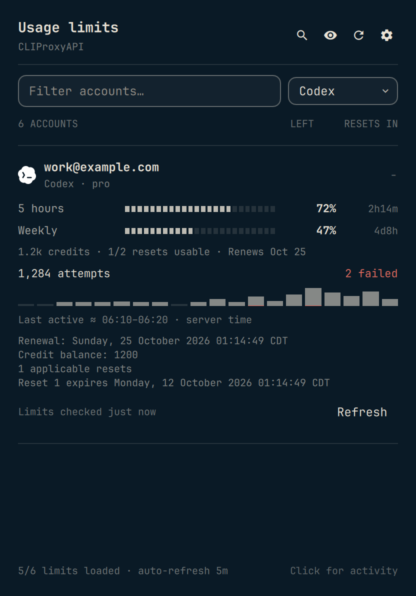
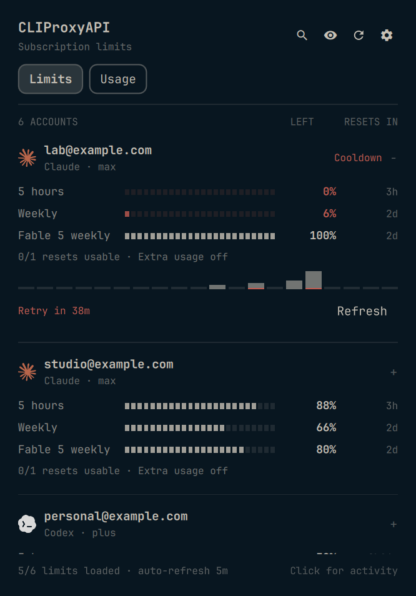
Simplify expanded account details while keeping quota charts

diff --git a/AccountRow.qml b/AccountRow.qml
@@ -1,4 +1,5 @@
 import QtQuick
+import QtQuick.Controls as Controls
 import QtQuick.Layouts
 import qs.Commons
 import qs.Commons as Commons
@@ -63,6 +64,9 @@ ColumnLayout {
         Layout.fillWidth: true; visible: root.facts !== ""
         text: root.facts; wrapMode: Text.Wrap
         color: Qt.alpha(Commons.Color.foreground, 0.55); font.pixelSize: Style.font.caption
+        HoverHandler { id: factsHover }
+        Controls.ToolTip.visible: factsHover.hovered && Display.quotaDetails(root.quota) !== ""
+        Controls.ToolTip.text: Display.quotaDetails(root.quota)
     }
     Label {
         Layout.fillWidth: true
@@ -102,45 +106,27 @@ ColumnLayout {
     ColumnLayout {
         visible: root.expanded
         Layout.fillWidth: true; spacing: Style.space(7)
-        RowLayout {
-            Layout.fillWidth: true
-            Label { text: Display.count(root.account.requests) + (root.account.metricsLabel === "Recorded requests" ? " requests" : " attempts"); font.pixelSize: Style.font.bodySmall }
-            Item { Layout.fillWidth: true }
-            Label { text: Display.count(root.account.failed) + " failed"; color: root.account.failed ? Commons.Color.urgent : Qt.alpha(Commons.Color.foreground, 0.5); font.pixelSize: Style.font.bodySmall }
-        }
         ActivityStrip { Layout.fillWidth: true; buckets: root.account.history || []; compact: true }
-        Label {
-            Layout.fillWidth: true; wrapMode: Text.Wrap
-            text: root.account.lastActivityKind === "exact" ? "Last request " + new Date(root.account.lastRequestAt).toLocaleString()
-                : root.account.lastActivityKind === "window" ? "Last active ≈ " + Display.activity(root.account, root.now) + " · server time"
-                : "Last request not reported"
-            color: Qt.alpha(Commons.Color.foreground, 0.5); font.pixelSize: Style.font.caption
-        }
-        Label {
-            Layout.fillWidth: true; visible: !!root.account.nextRetryAt
-            text: "Retry available " + (root.account.nextRetryAt ? new Date(root.account.nextRetryAt).toLocaleString() : "")
-            color: Commons.Color.urgent; font.pixelSize: Style.font.caption; wrapMode: Text.Wrap
-        }
-        Label {
-            Layout.fillWidth: true; visible: Display.quotaDetails(root.quota) !== ""
-            text: Display.quotaDetails(root.quota)
-            color: Qt.alpha(Commons.Color.foreground, 0.55); font.pixelSize: Style.font.caption; wrapMode: Text.Wrap
-        }
-        Label {
-            Layout.fillWidth: true; visible: !!(root.quota && (root.quota.notices || []).length)
-            text: root.quota ? (root.quota.notices || []).join("\n") : ""
-            color: Qt.alpha(Commons.Color.foreground, 0.55); font.pixelSize: Style.font.caption; wrapMode: Text.Wrap
-        }
         RowLayout {
             Layout.fillWidth: true
             Label {
-                Layout.fillWidth: true
-                text: root.quota && root.quota.updatedAt ? "Limits checked " + Display.relative(root.quota.updatedAt, root.now).toLowerCase() : "Limits not checked"
-                color: Qt.alpha(Commons.Color.foreground, 0.45); font.pixelSize: Style.font.caption
+                Layout.fillWidth: true; elide: Text.ElideRight
+                text: root.account.nextRetryAt ? (Display.resetShort(root.account.nextRetryAt, root.now) === "Due" ? "Retry available" : "Retry in " + Display.resetShort(root.account.nextRetryAt, root.now))
+                    : root.account.lastActivityKind === "exact" ? "Last request " + Display.relative(root.account.lastRequestAt, root.now).toLowerCase()
+                    : root.account.lastActivityKind === "window" ? "Last active ≈ " + Display.activity(root.account, root.now)
+                    : "Last activity —"
+                color: root.account.nextRetryAt ? Commons.Color.urgent : Qt.alpha(Commons.Color.foreground, 0.55)
+                font.pixelSize: Style.font.caption
+                HoverHandler { id: activityHover }
+                Controls.ToolTip.visible: activityHover.hovered
+                Controls.ToolTip.text: root.account.nextRetryAt ? "Retry available " + new Date(root.account.nextRetryAt).toLocaleString()
+                    : root.account.lastActivityKind === "exact" ? new Date(root.account.lastRequestAt).toLocaleString()
+                    : root.account.lastActivityKind === "window" ? "Approximate activity window · server time" : "Last request not reported"
             }
             Ui.Button {
                 visible: root.account.quotaSupported === true && (!root.account.quotaConsentRequired || root.consented)
                 text: root.quotaBusy ? "Checking…" : Display.retryWait(root.quota, root.now) > 0 ? "Wait " + Math.ceil(Display.retryWait(root.quota, root.now) / 60000) + "m" : "Refresh"
+                tooltipText: root.quota && root.quota.updatedAt ? "Limits checked " + Display.relative(root.quota.updatedAt, root.now).toLowerCase() : "Refresh subscription limits"
                 enabled: !root.busy && Display.retryWait(root.quota, root.now) <= 0; focusable: true
                 onClicked: root.quotaRequested(false)
             }

diff --git a/README.md b/README.md
@@ -121,7 +121,7 @@ Every account shows its reported quota windows without needing to expand it. Met
 
 Limits load automatically after connecting, then refresh at most every five minutes while the panel is open. The refresh button or a middle-click on the bar requests a full refresh. Accounts are fetched sequentially, provider retry delays are respected, and failures retain the previous successful limits with a visible error. Authentication failures stop polling until you reconnect.
 
-Credits, renewal dates, and reset counts appear beneath the meters. Expand an account for exact renewal/reset-expiry details, request activity, last request, failed attempts, and per-account refresh. The search button reveals account/provider filters. The eye button hides identities and clears the search.
+Credits, renewal dates, and reset counts appear beneath the meters. Expand an account for a compact activity chart, last activity, and refresh. Hover the credit/reset summary for exact renewal and reset-expiry details; hover a reset countdown for its full timestamp. The search button reveals account/provider filters. The eye button hides identities and clears the search.
 
 ![Subscription detail with synthetic data](docs/limits.png)
 
